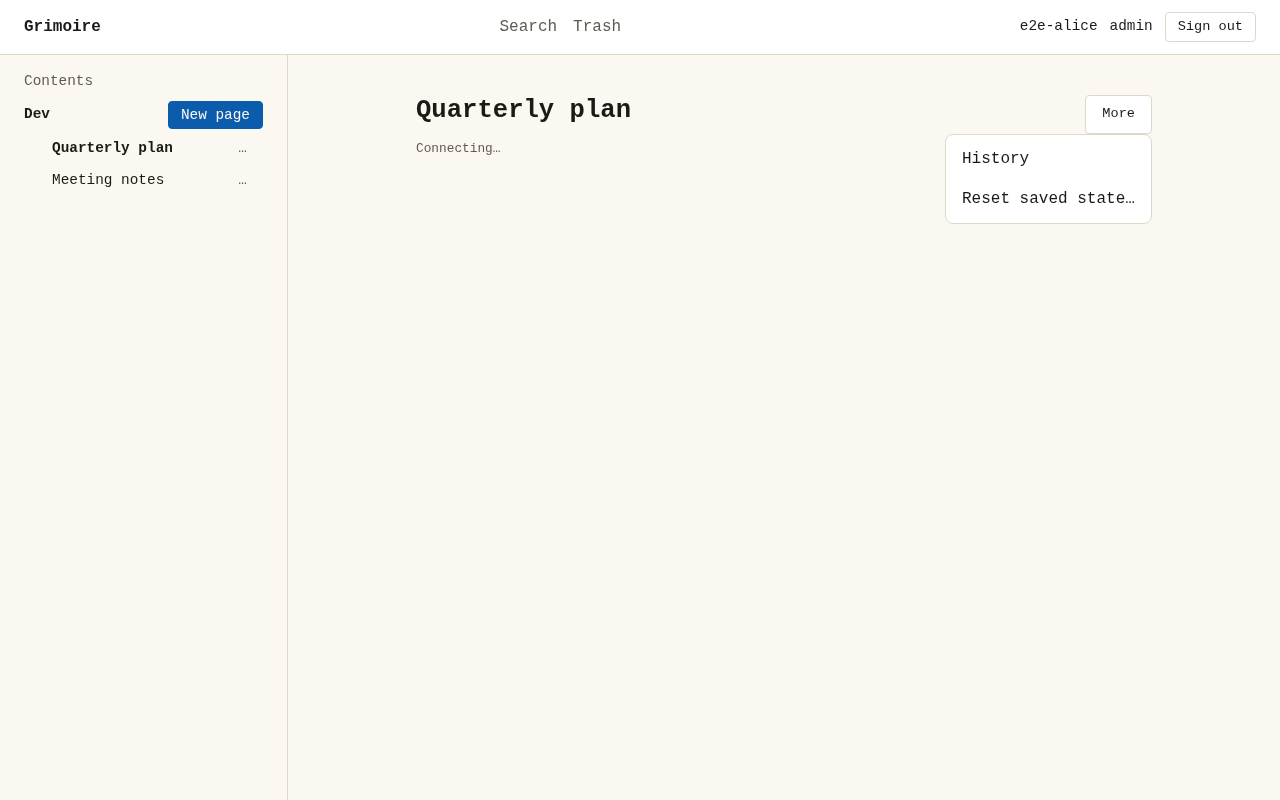
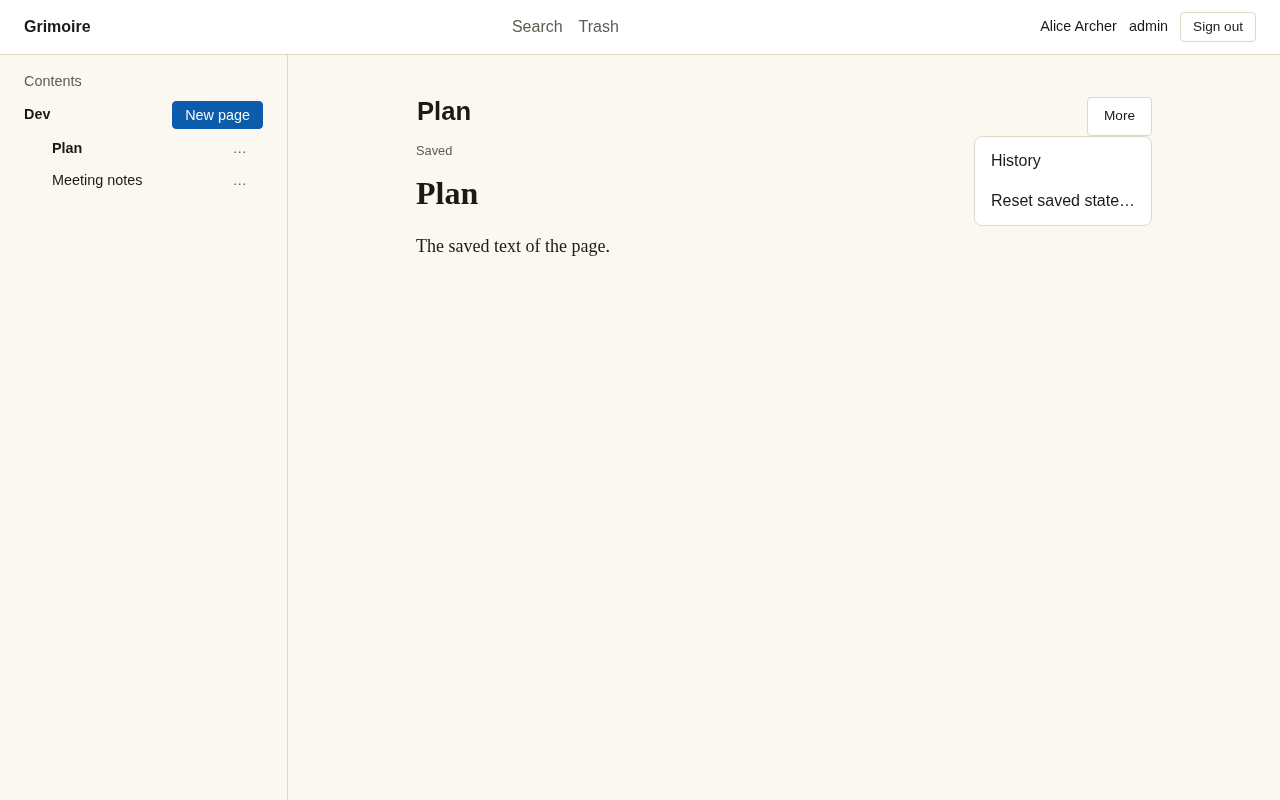
docs(web): the More menu and new-page screenshots in the interface font, as a named person, with the editor joined

diff --git a/apps/web/test-e2e/page/screenshots.spec.ts b/apps/web/test-e2e/page/screenshots.spec.ts
@@ -1,35 +1,15 @@
-import { expect, test, type Page } from '@playwright/test';
-import { mockApi } from '../collections/mock-api';
-import { SCRIPTED_PAGE_ID, SCRIPTED_URL_ID } from '../editor/scripted';
+import { expect, test } from '@playwright/test';
 import { shots } from '../support/shots';
-import { signInAs } from '../support/sign-in';
+import { EMPTY_PAGE, SAVED_PAGE, openShots, p, settled } from './shot-support';
 
 // The title of a page, edited in place, light and dark, 1280 by 800 (test-results/shots/M6-TITLE/): the title as the button it is, the field with the title in it, and the field of a new page.
-// Against a stand-in of the API (the editor has no collaboration server here). Run by the same command as the other browser tests.
+// Against a stand-in of the API (see `shot-support.ts` for the editor's collaboration server and the font). Run by the same command as the other browser tests.
 const TASK = 'M6-TITLE';
-// The editor joins a collaboration server only when `E2E_SHOT_COLLAB` (its address) is set: the pages here are the stand-in API's, which a real server does not know, so the shots are
-// taken with a collaboration server that accepts any page. Without it the status line says "Connecting…", which these specifications do not look at.
-const COLLAB = process.env['E2E_SHOT_COLLAB'];
-
-/** The page is settled: the tree is drawn, the person's name is shown and, with a collaboration server, the editor has joined (no "Connecting…"). `E2E_SHOT_FONT` (a font stack) stands in for the interface font where the machine has none that looks like the product's. */
-async function settled(page: Page, tree: number): Promise<void> {
-  await expect(page.getByRole('treeitem')).toHaveCount(tree);
-  await expect(page.getByText('Alice Archer')).toBeVisible();
-  if (COLLAB !== undefined) await expect(page.getByTestId('editor-root')).toHaveAttribute('data-collab-state', 'synced');
-  const font = process.env['E2E_SHOT_FONT'];
-  if (font !== undefined) await page.addStyleTag({ content: `:root { --font-ui: ${font}; }` });
-}
-const p = (id: string, parentId: string | null, position: string, title: string, urlId = id.padEnd(8, '0')) => ({ id, urlId, parentId, position, title, icon: null });
-// The one page that the collaboration server of the shots knows is SCRIPTED_PAGE_ID (urlId abc123).
-const open = async (page: Page, context: Parameters<typeof signInAs>[0], pages: ReturnType<typeof p>[], extra: { firstNewPageId?: string; firstNewPageUrlId?: string } = {}) => {
-  await signInAs(context, 'e2e-alice', 'member', { check: COLLAB !== undefined }); // the collaboration server of the shots checks the token: it has to be a real one
-  await mockApi(page, { collections: [{ id: 'c1', name: 'Dev', myPermission: 'read-write' }], pages, userName: 'Alice Archer', ...extra, ...(COLLAB === undefined ? {} : { collabUrl: COLLAB }) });
-};
 
 test('the title of a page: the button, and the field with the title', async ({ page, context, browserName }) => {
   test.skip(browserName !== 'chromium', 'screenshots are taken once, in Chromium');
-  await open(page, context, [p(SCRIPTED_PAGE_ID, null, 'p0000', 'Plan', 'abc123'), p('b', null, 'p0001', 'Meeting notes')]);
-  await page.goto('/p/plan-abc123');
+  await openShots(page, context, [p(SAVED_PAGE.id, null, 'p0000', 'Plan', SAVED_PAGE.urlId), p('b', null, 'p0001', 'Meeting notes')]);
+  await page.goto(`/p/plan-${SAVED_PAGE.urlId}`);
   const heading = page.locator('h1#screen-title');
   await expect(heading).toHaveText('Plan');
   await settled(page, 2);
@@ -42,7 +22,7 @@ test('the title of a page: the button, and the field with the title', async ({ p
 
 test('the field of a new page', async ({ page, context, browserName }) => {
   test.skip(browserName !== 'chromium', 'screenshots are taken once, in Chromium');
-  await open(page, context, [p('a', null, 'p0000', 'Quarterly plan'), p('b', null, 'p0001', 'Meeting notes')], { firstNewPageId: SCRIPTED_PAGE_ID, firstNewPageUrlId: SCRIPTED_URL_ID });
+  await openShots(page, context, [p('a', null, 'p0000', 'Quarterly plan'), p('b', null, 'p0001', 'Meeting notes')], { firstNew: EMPTY_PAGE });
   await page.goto('/c/c1');
   await expect(page.getByRole('treeitem')).toHaveCount(2);
   await page.getByRole('button', { name: 'New page' }).click();

diff --git a/apps/web/test-e2e/page/shot-support.ts b/apps/web/test-e2e/page/shot-support.ts
@@ -1,0 +1,36 @@
+import { expect, type Page } from '@playwright/test';
+import { mockApi } from '../collections/mock-api';
+import { SCRIPTED_PAGE_ID, SCRIPTED_URL_ID } from '../editor/scripted';
+import { signInAs } from '../support/sign-in';
+
+// What the screenshots of the page screen share. The editor joins a collaboration server only when `E2E_SHOT_COLLAB` (its address) is set: the pages here are the stand-in API's, which a real
+// server does not know, so the shots are taken with a collaboration server that accepts these two pages (SAVED_PAGE: with a text; EMPTY_PAGE: an empty document, as a new page is). Without it
+// the status line says "Connecting…", which the specifications that use this do not look at.
+export const COLLAB = process.env['E2E_SHOT_COLLAB'];
+export const SAVED_PAGE = { id: SCRIPTED_PAGE_ID, urlId: SCRIPTED_URL_ID };
+export const EMPTY_PAGE = { id: '22222222-2222-4222-8222-222222222222', urlId: 'new00001' };
+
+export const p = (id: string, parentId: string | null, position: string, title: string, urlId = id.padEnd(8, '0')) => ({ id, urlId, parentId, position, title, icon: null });
+
+/** The page is settled: the tree is drawn, the person's name is shown and, with a collaboration server, the editor has joined. `E2E_SHOT_FONT` (a font stack) stands in for the interface font where the machine has none that looks like the product's. */
+export async function settled(page: Page, tree: number): Promise<void> {
+  await expect(page.getByRole('treeitem')).toHaveCount(tree);
+  await expect(page.getByText('Alice Archer')).toBeVisible();
+  if (COLLAB !== undefined) await expect(page.getByTestId('editor-root')).toHaveAttribute('data-collab-state', 'synced');
+  const font = process.env['E2E_SHOT_FONT'];
+  if (font !== undefined) await page.addStyleTag({ content: `:root { --font-ui: ${font}; }` });
+}
+
+/** Signs in (with a real token when there is a collaboration server: it checks the token) and stands in for the API. `firstNew` is the page that "New page" makes. */
+export async function openShots(page: Page, context: Parameters<typeof signInAs>[0], pages: ReturnType<typeof p>[], options: { role?: 'admin' | 'member'; firstNew?: { id: string; urlId: string } } = {}): Promise<void> {
+  const role = options.role ?? 'member';
+  await signInAs(context, 'e2e-alice', role, { check: COLLAB !== undefined });
+  await mockApi(page, {
+    collections: [{ id: 'c1', name: 'Dev', myPermission: 'read-write' }],
+    pages,
+    userName: 'Alice Archer',
+    role,
+    ...(options.firstNew === undefined ? {} : { firstNewPageId: options.firstNew.id, firstNewPageUrlId: options.firstNew.urlId }),
+    ...(COLLAB === undefined ? {} : { collabUrl: COLLAB }),
+  });
+}

diff --git a/apps/web/test-e2e/page/more-screenshots.spec.ts b/apps/web/test-e2e/page/more-screenshots.spec.ts
@@ -1,20 +1,18 @@
 import { expect, test } from '@playwright/test';
-import { mockApi } from '../collections/mock-api';
 import { shots } from '../support/shots';
-import { signInAs } from '../support/sign-in';
+import { SAVED_PAGE, openShots, p, settled } from './shot-support';
 
-// The More menu of the page head, light and dark, 1280 by 800 (test-e2e results `shots/M6-MORE/`): closed, open for an administrator, open for a member.
-// Against a stand-in of the API (the editor has no collaboration server here). Run by the same command as the other browser tests.
+// The More menu of the page head, light and dark, 1280 by 800 (test-results/shots/M6-MORE/): closed, open for an administrator, open for a member. Against a stand-in of the API (see
+// `shot-support.ts` for the editor's collaboration server and the font). Run by the same command as the other browser tests.
 const TASK = 'M6-MORE';
-const p = (id: string, parentId: string | null, position: string, title: string) => ({ id, urlId: id.padEnd(8, '0'), parentId, position, title, icon: null });
 
 for (const role of ['admin', 'member'] as const) {
   test(`the page head and its More menu for ${role === 'admin' ? 'an administrator' : 'a member'}`, async ({ page, context, browserName }) => {
     test.skip(browserName !== 'chromium', 'screenshots are taken once, in Chromium');
-    await signInAs(context, 'e2e-alice', role, { check: false });
-    await mockApi(page, { collections: [{ id: 'c1', name: 'Dev', myPermission: 'read-write' }], pages: [p('a', null, 'p0000', 'Quarterly plan'), p('b', null, 'p0001', 'Meeting notes')], role });
-    await page.goto('/p/quarterly-plan-a0000000');
+    await openShots(page, context, [p(SAVED_PAGE.id, null, 'p0000', 'Plan', SAVED_PAGE.urlId), p('b', null, 'p0001', 'Meeting notes')], { role });
+    await page.goto(`/p/plan-${SAVED_PAGE.urlId}`);
     await expect(page.getByTestId('user-role')).toHaveText(role);
+    await settled(page, 2);
     if (role === 'admin') await shots(page, TASK, 'closed');
     await page.getByRole('button', { name: 'More page actions' }).click();
     await expect(page.getByRole('menuitem', { name: 'History' })).toBeVisible();
